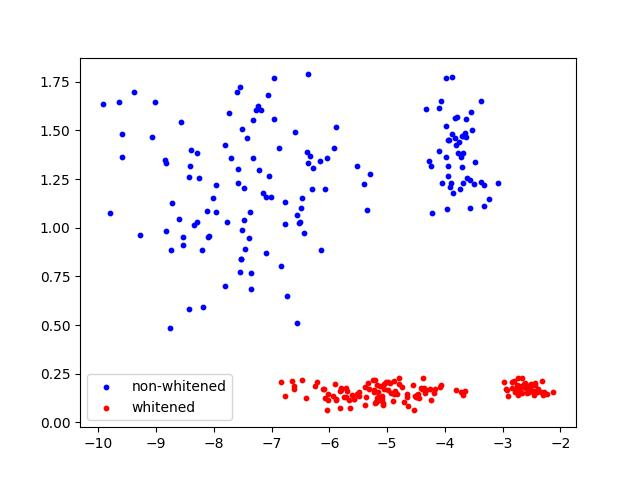
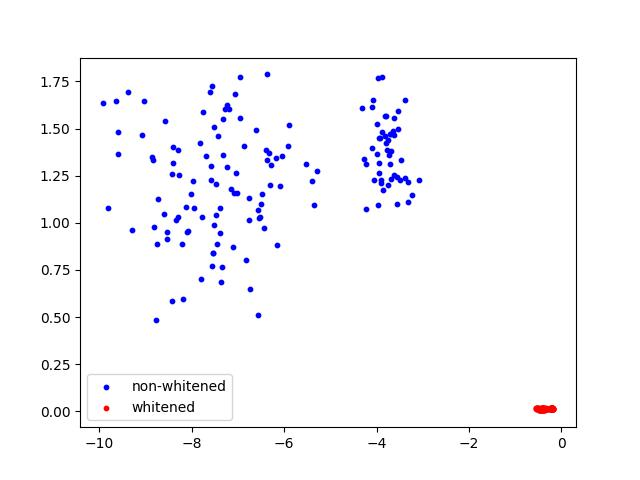
EDIT cov2 function variables D and n to describe size of data

diff --git a/main.py b/main.py
@@ -4,13 +4,18 @@ from sklearn.datasets import load_iris
 import matplotlib.pyplot as plt
 
 
-def cov2(X):
+def cov2(X, div=False):
     X = X.T
-    for i in range(len(X)):
+    D = len(X[0])
+    n = len(X)
+    for i in range(n):
         mean = X[i].mean()
         partial_vector = []
-        for j in range(len(X[0])):
-            partial_vector.append(X[i][j] - mean)
+        for j in range(D):
+            var = X[i][j] - mean
+            if div:
+                var /= n
+            partial_vector.append(var)
         partial_vector = numpy.array([partial_vector])
         partial_matrix = partial_vector.T @ partial_vector
 
@@ -134,3 +139,6 @@ if __name__ == '__main__':
     Y1, V1, Lambda1 = pca(iris_data, 2, True)
 
     scatter_plot(Y, Y1)
+
+    print(V)
+    print(Lambda)
